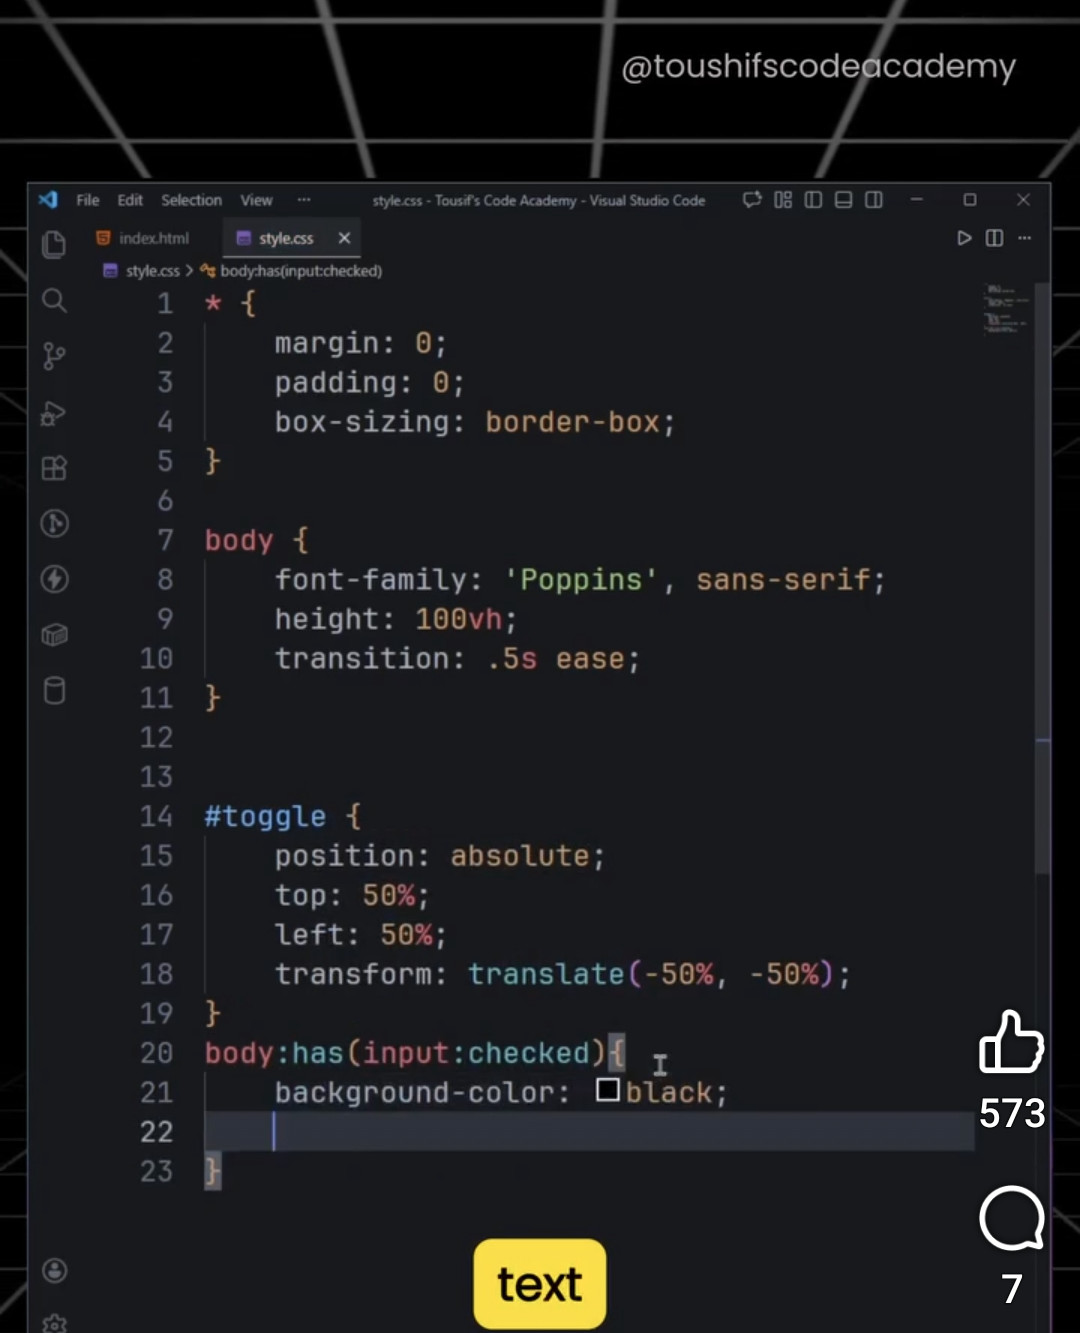
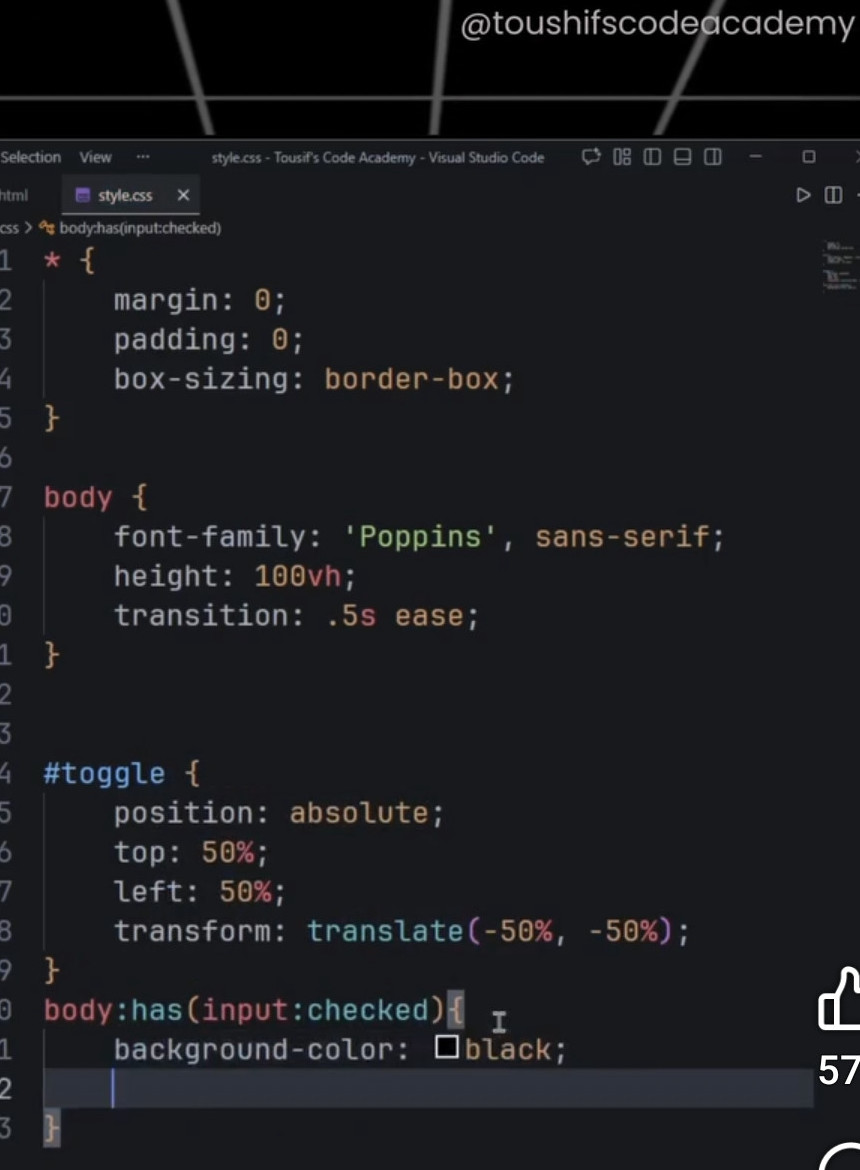
Nouveaux éléments
Nouveaux éléments
Menu pour mettre en évidence les lignes qui concernent un langage
Quelques commentaires dans les extraits
Les images d'illustrations sont directement positionnées dans les fichiers HTML

Changed region(s): [[0.0, 0.0, 1.0, 1.0], [0.4233, 0.6154, 0.5442, 0.6462], [0.6953, 0.7077, 0.786, 0.7385]]

diff --git a/index.html b/index.html
@@ -10,18 +10,26 @@
 <body>
 	<h2>Picture code</h2>
 	<p>Picture Code Index est une base de données de morceaux de code trouvés sur le Web qui m'ont semblé utile. En partant de la capture d'écran, j'ai réalisé un petit code. J'essaie de créditer les auteurs originaux, mais il y a quelques loupés. Si vous êtes un auteur, n'hésitez pas à faire valoir votre droit.</p>
+	<label for="language-highlight">Mise en évidence : </label>
+	<select id="language-highlight">
+		<option value="">Tous les langages</option>
+		<option value="html">HTML</option>
+		<option value="css">CSS</option>
+		<option value="php">PHP</option>
+		<option value="js">Javascript</option>
+		<option value="java">Java</option>
+		<option value="python">Python</option>
+	</select>
 	<table>
 		<caption>Picture code index</caption>
 		<tr>
 			<th>Description</th>
 			<th>Code</th>
-			<th>Source</th>
 			<th>Mots-clés</th>
 		</tr>
 		<tr class="js">
 			<td>arrow function sans return</td>
 			<td><a href="codes/js-arrow-function/index.html">code</a></td>
-			<td><a href="codes/js-arrow-function/IMG_1730539741011.jpg">image</a></td>
 			<td>
 				<ul>
 					<li>arrow function</li>
@@ -32,7 +40,6 @@
 		<tr class="js">
 			<td>une fonction en tant que paramètre d'une autre fonction</td>
 			<td><a href="codes/js-function-as-arg/index.html">code</a></td>
-			<td><a href="codes/js-function-as-arg/Screenshot_20241114_074714.jpg">image</a></td>
 			<td>
 				<ul>
 					<li>lambda function</li>
@@ -41,8 +48,7 @@
 		</tr>
 		<tr class="css">
 			<td>@scope, définir des propriétés CSS supplémentaires</td>
-			<td><a href="codes/css-scope-pseudo-classe/index.html">code</a></td>
-			<td><a href="codes/css-scope-pseudo-classe/Screenshot_20260127_183546.jpg">image</a></td>
+			<td><a href="codes/css-scope-pseudo-class/index.html">code</a></td>
 			<td>
 				<ul>
 					<li>@scope</li>
@@ -53,12 +59,39 @@
 		<tr class="css">
 			<td>:has, structure conditionnelle</td>
 			<td><a href="codes/css-has-pseudo-class/index.html">code</a></td>
-			<td><a href="codes/css-has-pseudo-class/Screenshot_20260125_17181.jpg">image</a></td>
 			<td>
 				<ul>
 					<li>:has</li>
 					<li>pseudo-class</li>
 					<li>:checked</li>
+				</ul>
+			</td>
+		</tr>
+		<tr class="css">
+			<td>&:hover, pseudo-class dans un style</td>
+			<td><a href="codes/css-and-pseudo-class/index.html">code</a></td>
+			<td>
+				<ul>
+					<li>&:</li>
+					<li>pseudo-class</li>
+				</ul>
+			</td>
+		</tr>
+		<tr class="css">
+			<td>classe avec une couleur définie</td>
+			<td><a href="codes/css-var/index.html">code</a></td>
+			<td>
+				<ul>
+					<li>currentColor value</li>
+				</ul>
+			</td>
+		</tr>
+		<tr class="css">
+			<td>@container, requête de container</td>
+			<td><a href="codes/css-container-rule/index.html">code</a></td>
+			<td>
+				<ul>
+					<li>@container</li>
 				</ul>
 			</td>
 		</tr>

diff --git a/codes/js-function-as-arg/index.html b/codes/js-function-as-arg/index.html
@@ -4,7 +4,27 @@
 	<meta charset="UTF-8">
 	<meta name="viewport" content="width=device-width, initial-scale=1.0">
 	<title>Document</title>
-	<script src="code.js"></script>
+	<script>
+		function changeArray(tableau, action)
+		{
+			for(let i = 0; i < tableau.length; i++)
+			{
+				tableau[i] = action(tableau[i]);
+			}
+		}
+
+		const tableau = [1, 2, 5, 9, 12, 15];
+		function run() {
+			//changeArray(tableau, y => y *3);
+			changeArray(tableau, (x) => {
+				if(x % 2 === 0) return x;
+				else return x * 3;
+			});
+
+
+			document.getElementById("log-result").innerText = tableau;
+		}
+	</script>
 	<style>
 		#log-result { background-color: black; color: white;}
 	</style>
@@ -13,7 +33,7 @@
 	<input type="button" value="Run" onclick="run();">
 	<div id="log-result">Waiting code run</div>
 
-
+	<img src="Screenshot_20241114_074714.jpg" alt="source" width="300">
 
 </body>
 </html>

diff --git a/assets/style.css b/assets/style.css
@@ -24,6 +24,12 @@ table {
 	border: 2px solid black;
 	width: 98%;
 }
+select {
+	border: 1px solid yellowgreen;
+	background-color: dimgray;
+	color: burlywood;
+	font-size: 1.2rem;
+}
 td, th {
 	border: 1px solid black;
 }
@@ -36,6 +42,13 @@ tr:nth-child(even) {
 tr:nth-child(odd) {
 	background-color: rgb(85, 85, 108) ;
 }
+/* highligth <tr> based on a value selected in <select> */
+body:has(option[value="js"]:checked) tr.js { color: lime; }
+body:has(option[value="html"]:checked) tr.html { color: lime; }
+body:has(option[value="php"]:checked) tr.php { color: lime; }
+body:has(option[value="css"]:checked) tr.css { color: lime; }
+body:has(option[value="python"]:checked) tr.python { color: lime; }
+
 tr.js a {
 	background-color: #efd81d;
 	color: #000000;

diff --git a/codes/css-var/index.html b/codes/css-var/index.html
@@ -1,0 +1,28 @@
+<!DOCTYPE html>
+<html lang="en">
+<head>
+	<meta charset="UTF-8">
+	<meta name="viewport" content="width=device-width, initial-scale=1.0">
+	<title>Document</title>
+	<style>
+		:root {
+			--alertSuccess: greenyellow;
+			--alertDanger: orangered;
+		}
+		.alert {
+			border: 2px solid currentColor; /* currentColor se réfère à la couleur définit pour color */
+		}
+		.success {
+			color: var(--alertSuccess);
+		}
+		.alert--danger { /* le double tiret n'a pas d'intérêt particulier */
+			color: var(--alertDanger);
+		}
+	</style>
+</head>
+<body>
+	<div class="alert success">Pouik</div>
+	<div class="alert alert--danger">Pouik</div>
+	<img src="Screenshot_20251004_145823.jpg" alt="source" width="300">
+</body>
+</html>

diff --git a/codes/css-container-rule/index.html b/codes/css-container-rule/index.html
@@ -1,0 +1,33 @@
+<!DOCTYPE html>
+<html lang="en">
+<head>
+	<meta charset="UTF-8">
+	<meta name="viewport" content="width=device-width, initial-scale=1.0">
+	<title>Document</title>
+	<style>
+		.container {
+			width: 100%;
+			border: 1px solid black;
+			container-type: inline-size; /* important*/ 
+			container-name: monConteneur; /* nom du conteneur */
+		}
+		span {
+			background-color: purple;
+			color: orange;
+			font-size: large;
+		}
+		@container monConteneur (width > 800px) {
+			span {
+				color: limegreen;
+			}
+		}
+
+	</style>
+</head>
+<body>
+	<div class="container">
+		<span>Hello</span>
+	</div>
+	<img src="Screenshot_20251016_075103.jpg" alt="source" width="300">
+</body>
+</html>

diff --git a/codes/js-arrow-function/index.html b/codes/js-arrow-function/index.html
@@ -4,7 +4,19 @@
 	<meta charset="UTF-8">
 	<meta name="viewport" content="width=device-width, initial-scale=1.0">
 	<title>Document</title>
-	<script src="code.js"></script>
+	<script>
+	function run() {
+	const sum = (x, y) => x + y;
+	/*
+	équivalent à 
+		const sum = (x, y) => {
+			return x + y;
+		};
+	*/
+	document.getElementById("log-result").innerText = sum(18, 90);
+}
+
+	</script>
 	<style>
 		#log-result { background-color: black; color: white;}
 	</style>
@@ -13,7 +25,7 @@
 	<input type="button" value="Run" onclick="run();">
 	<div id="log-result">Waiting code run</div>
 
-
+	<img src="IMG_1730539741011.jpg" alt="source" width="300">
 
 </body>
 </html>

diff --git a/codes/css-has-pseudo-class/index.html b/codes/css-has-pseudo-class/index.html
@@ -6,6 +6,7 @@
 	<title>Document</title>
 	<style>
 		body:has(input[name="background-color"]:checked) {
+			/* s'applique lorsque une balise input avec l'attribut name qui vaut background-color est checked dans la balise body */
 			background-color: darkslateblue;
 			color: white;
 		}
@@ -32,5 +33,6 @@
 		<option value="blue">Blue</option>
 		<option value="yellow">Yellow</option>
 	</select>
+	<img src="Screenshot_20260125_17181.jpg" alt="source" width="300">
 </body>
 </html>

diff --git a/codes/css-and-pseudo-class/index.html b/codes/css-and-pseudo-class/index.html
@@ -1,0 +1,21 @@
+<!DOCTYPE html>
+<html lang="en">
+<head>
+	<meta charset="UTF-8">
+	<meta name="viewport" content="width=device-width, initial-scale=1.0">
+	<title>Document</title>
+	<style>
+		h3 {
+			color: orange;
+			&:hover { /* la même chose qu'un autre bloc avec h3:hover */
+				background-color: purple;
+				color: pink;
+			}
+		}
+	</style>
+</head>
+<body>
+	<h3>Hello world</h3>
+	<img src="Screenshot_20250926_185813.jpg" alt="source" width="300">
+</body>
+</html>

diff --git a/codes/css-scope-pseudo-class/index.html b/codes/css-scope-pseudo-class/index.html
@@ -30,5 +30,7 @@
 		<p>Véhicules</p>
 	</div>
 	<p>Humains</p>
+
+	<img src="Screenshot_20260127_183546.jpg" alt="source" width="300">
 </body>
 </html>
